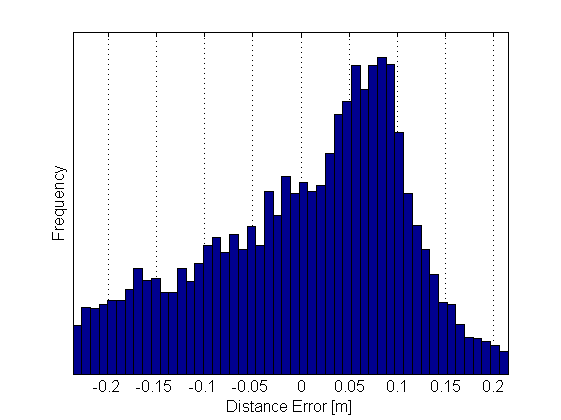
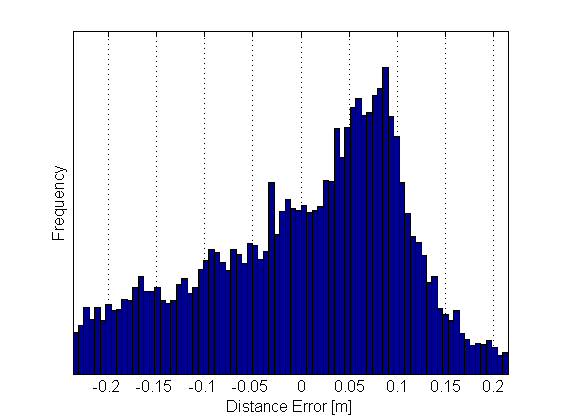
Revise the ground truth in Roh's angulation dataset

Changed region(s): [[0.1212, 0.1238, 0.9091, 0.8976], [0.1212, 0.0619, 0.9091, 0.0929]]

diff --git a/run_eval_roh.m b/run_eval_roh.m
@@ -19,15 +19,15 @@ config.dataFile = ... % A list of data files
 };
 config.pose = ... % A list of ground truth
 [                            ...
-    1.5, 1.5, 0, 0, 0, pi/2; ...
-    1.5, 3.0, 0, 0, 0, pi/2; ...
-    1.5, 4.5, 0, 0, 0, pi/2; ...
-    3.0, 1.5, 0, 0, 0, pi/2; ...
-    3.0, 3.0, 0, 0, 0, pi/2; ...
-    3.0, 4.5, 0, 0, 0, pi/2; ...
-    4.5, 1.5, 0, 0, 0, pi/2; ...
-    4.5, 3.0, 0, 0, 0, pi/2; ...
-    4.5, 4.5, 0, 0, 0, pi/2; ...
+    1.50, 1.44, 0, 0, 0, tran_deg2rad(90.7); ...
+    1.50, 2.92, 0, 0, 0, tran_deg2rad(90.9); ...
+    1.58, 4.54, 0, 0, 0, tran_deg2rad(85.5); ...
+    3.01, 1.43, 0, 0, 0, tran_deg2rad(87.1); ...
+    3.05, 2.93, 0, 0, 0, tran_deg2rad(88.9); ...
+    3.09, 4.55, 0, 0, 0, tran_deg2rad(91.3); ...
+    4.50, 1.39, 0, 0, 0, tran_deg2rad(88.5); ...
+    4.53, 2.98, 0, 0, 0, tran_deg2rad(89.9); ...
+    4.51, 4.47, 0, 0, 0, tran_deg2rad(90.5); ...
 ];
 config.algorithm = ... % Description of localization algorithms
 {                                                                                                         ...

diff --git a/test_is_near.m b/test_is_near.m
@@ -1,9 +1,9 @@
 function [result] = test_is_near(a, b, tol, verbose)
-%TEST_IS_TRUE  Check whether the given two values are near or not
+%TEST_IS_TRUE  Check whether two given values are near or not
 %
 %   RESULT = TEST_IS_NEAR(A, B, TOL, VERBOSE)
-%       (matrix) A      : The given value
-%       (matrix) B      : The given value
+%       (matrix) A      : The 1st given value
+%       (matrix) B      : The 2nd given value
 %       (scalar) TOL    : Tolerance (default: 1.0e-8)
 %       (scalar) VERBOSE: A flag to print its result (default: true)
 %       (scalar) RESULT : The test result
@@ -15,7 +15,7 @@ function [result] = test_is_near(a, b, tol, verbose)
 %       t = test_is_near(pi, pi + eps)
 %       t = test_is_near([3, 29], [3 + eps, 29 - eps])
 %
-%   See also test_is_near.
+%   See also test_is_true.
 
 if nargin < 3
     tol = 1e-8;

diff --git a/run_test_aux.m b/run_test_aux.m
@@ -103,10 +103,10 @@ test_is_near(obsData(4,:), [ 0,  5,  0]);
 % observe_bearing
 disp('==== observe_bearing ====');
 [obsData, obsMap] = observe_bearing(map, pose);
-test_is_near(obsData(1,:), [tran_deg2rad( 135), acos(-5 / sqrt(75))]);
-test_is_near(obsData(2,:), [tran_deg2rad(-180), tran_deg2rad(  90)]);
-test_is_near(obsData(3,:), [tran_deg2rad(   0), tran_deg2rad( 180)]);
-test_is_near(obsData(4,:), [tran_deg2rad(  90), tran_deg2rad(  90)]);
+test_is_near(obsData(1,:), [tran_deg2rad( 135), -acos(sqrt(2/3))]);
+test_is_near(obsData(2,:), [tran_deg2rad(-180),       0]);
+test_is_near(obsData(3,:), [tran_deg2rad(   0), -pi / 2]);
+test_is_near(obsData(4,:), [tran_deg2rad(  90),       0]);
 
 % observe_pose
 disp('==== observe_pose ====');

diff --git a/run_example.m b/run_example.m
@@ -43,7 +43,7 @@ fprintf('- The orientation error: %.3f [rad] /', errOri);
 fprintf(' %.1f [deg]\n', tran_rad2deg(errOri));
 
 % Visualize results
-figure();
+figure('Color', [1, 1, 1]);
 hold on;
     plot3(trueMap(:,1), trueMap(:,2), trueMap(:,3), 'b.', 'MarkerSize', 20);  % All landmarks
     plot3(obsMap(:,1), obsMap(:,2), obsMap(:,3), 'ro', 'LineWidth', 2);       % The observed landmarks

diff --git a/error_orientation.m b/error_orientation.m
@@ -1,5 +1,5 @@
 function [rad] = error_orientation(p, q)
-%ERROR_ORIENTATION  Calculate angular difference between two orientations.
+%ERROR_ORIENTATION  Calculate angular difference between two sets of Euler angles.
 %
 %   D = ERROR_ORIENTATION(P, Q)
 %       (matrix) P: An Euler angle (1x3 matrix)

diff --git a/dataset_mrclam/README.md b/dataset_mrclam/README.md
@@ -1,15 +1,15 @@
 ## MRCLAM Dataset
 UTIAS Multi-Robot Cooperative Localization and Mapping Dataset (a.k.a. MRCLAM dataset) consists of 9 sets of data including odometry, distance and bearing measurements of 15 landmarks from 5 robots. The dataset originally aims cooperative localization and SLAM, but we utilize it for landmark-based localization from instantaneously available observation.
 
-We convert MRCLAM dataset to easily apply to landmark-based localization. The instantaneously available data are defined as all measurements acquired during very small motion (0.01 meters and 0.01 radians) and at most 1 second. We reject the observation whose number of measurements is less than 3. Outlier measurements are also removed during conversion. Its conversion for each set is presented in [`run_conv_mrclam.m`](https://github.com/SunglokChoi/Triangulation-Toolbox/blob/master/run_conv_mrclam.m). The converted sets of data are written in MATLAB MAT files such as `mrclam1.mat`.
+We convert MRCLAM dataset to easily apply to landmark-based localization. The instantaneously available data are extracted as observed measurements during very small motion (0.01 meters and 0.01 radians) and short time (at most 1 second). We reject the observation whose number of measurements is less than 3. Outlier measurements are also removed during conversion. Its conversion for each set is presented in [`run_conv_mrclam.m`](https://github.com/SunglokChoi/Triangulation-Toolbox/blob/master/run_conv_mrclam.m). The converted sets of data are written in MATLAB MAT files such as `mrclam1.mat`.
 
 You can get more detail on MRCLAM dataset from its website and paper [1]. Please cite their paper if you use this dataset.
 
 #### Landmark Map, Ground Truth, and Measurements
-The data files, _mrclam?.mat_, contains three variables: _landmark_, _groundtruth_, and _measurement_. The variable _landmark_ contains 15 lines of information with 3 columns which sequentially mean landmark ID and 2D position. In contrast to the original dataset, the landmark IDs are rearranged to begin with 1. The variable _groundtruth_ contains 4 columns of data which are experiment ID and true 2D pose (position and orientation) of the robot. The experiment IDs start from 1 and its number is same with the number of lines. The variable _measurement_ includes 4 columns of data which represent the experiment ID, observed landmark ID, and its range and bearing measurements. Observations with same experiment ID mean a single set of experiments. Units of all values are meter for distance and radian for angle. In overall, three variables are aligned as follows.
+The data files, `mrclam?.mat`, contains three variables: _landmark_, _groundtruth_, and _measurement_. The variable _landmark_ contains 15 lines of information with 3 columns which sequentially mean landmark ID and 2D position. In contrast to the original dataset, the landmark IDs are rearranged to begin with 1. The variable _groundtruth_ contains 4 columns of data which are experiment ID and true 2D pose (position and orientation) of the robot. The experiment IDs start from 1 and its number is same with the number of lines. The variable _measurement_ includes 4 columns of data which represent the experiment ID, observed landmark ID, and its range and bearing measurements. Observations with same experiment ID mean a single set of experiments. Units of all values are meter for distance and radian for angle. In overall, three variables contains the following.
  * _landmark_: landmark ID, position X, position Y (of each landmark)
  * _groundtruth_: experiment ID, position X, position Y, orientation (of each robot's true pose)
  * _measurement_: experiment ID, observed landmark ID, observed distance, observed bearing (from each robot's true pose to a landmark)
 
 #### Reference
- * [1] K. Leung, Y. Halpern, T. Barfoot, and H. Liu, __The UTIAS Multi-Robot Cooperative Localization and Mapping Dataset__, The International Journal of Robotics Research, Vol. 30, No. 8, 2011 [Website](http://asrl.utias.utoronto.ca/datasets/mrclam/) [IJRR Online](http://ijr.sagepub.com/content/30/8/969)
+ * [1] K. Leung, Y. Halpern, T. Barfoot, and H. Liu, __The UTIAS Multi-Robot Cooperative Localization and Mapping Dataset__, The International Journal of Robotics Research, Vol. 30, No. 8, 2011 [IJRR Online](http://ijr.sagepub.com/content/30/8/969) [Website](http://asrl.utias.utoronto.ca/datasets/mrclam/)

diff --git a/dataset_roh/README.md b/dataset_roh/README.md
@@ -1,6 +1,6 @@
 ## Roh's Angulation Dataset
 
-_Roh's angulation dataset_ is a set of measurements acquired from an IR detector and four IRED landmarks. The sensor system aims at 2D bearing-based localization, which is described in Roh's thesis [1] and paper [2] in detail.
+_Roh's angulation dataset_ is a set of measurements acquired from a rotating IR detector and four IRED landmarks. The sensor system aims at 2D bearing-based localization, which is described in Roh's thesis [1] and paper [2] in detail.
 
 #### Landmark Map
 The map file, _landmark.csv_, contains position of four landmarks.
